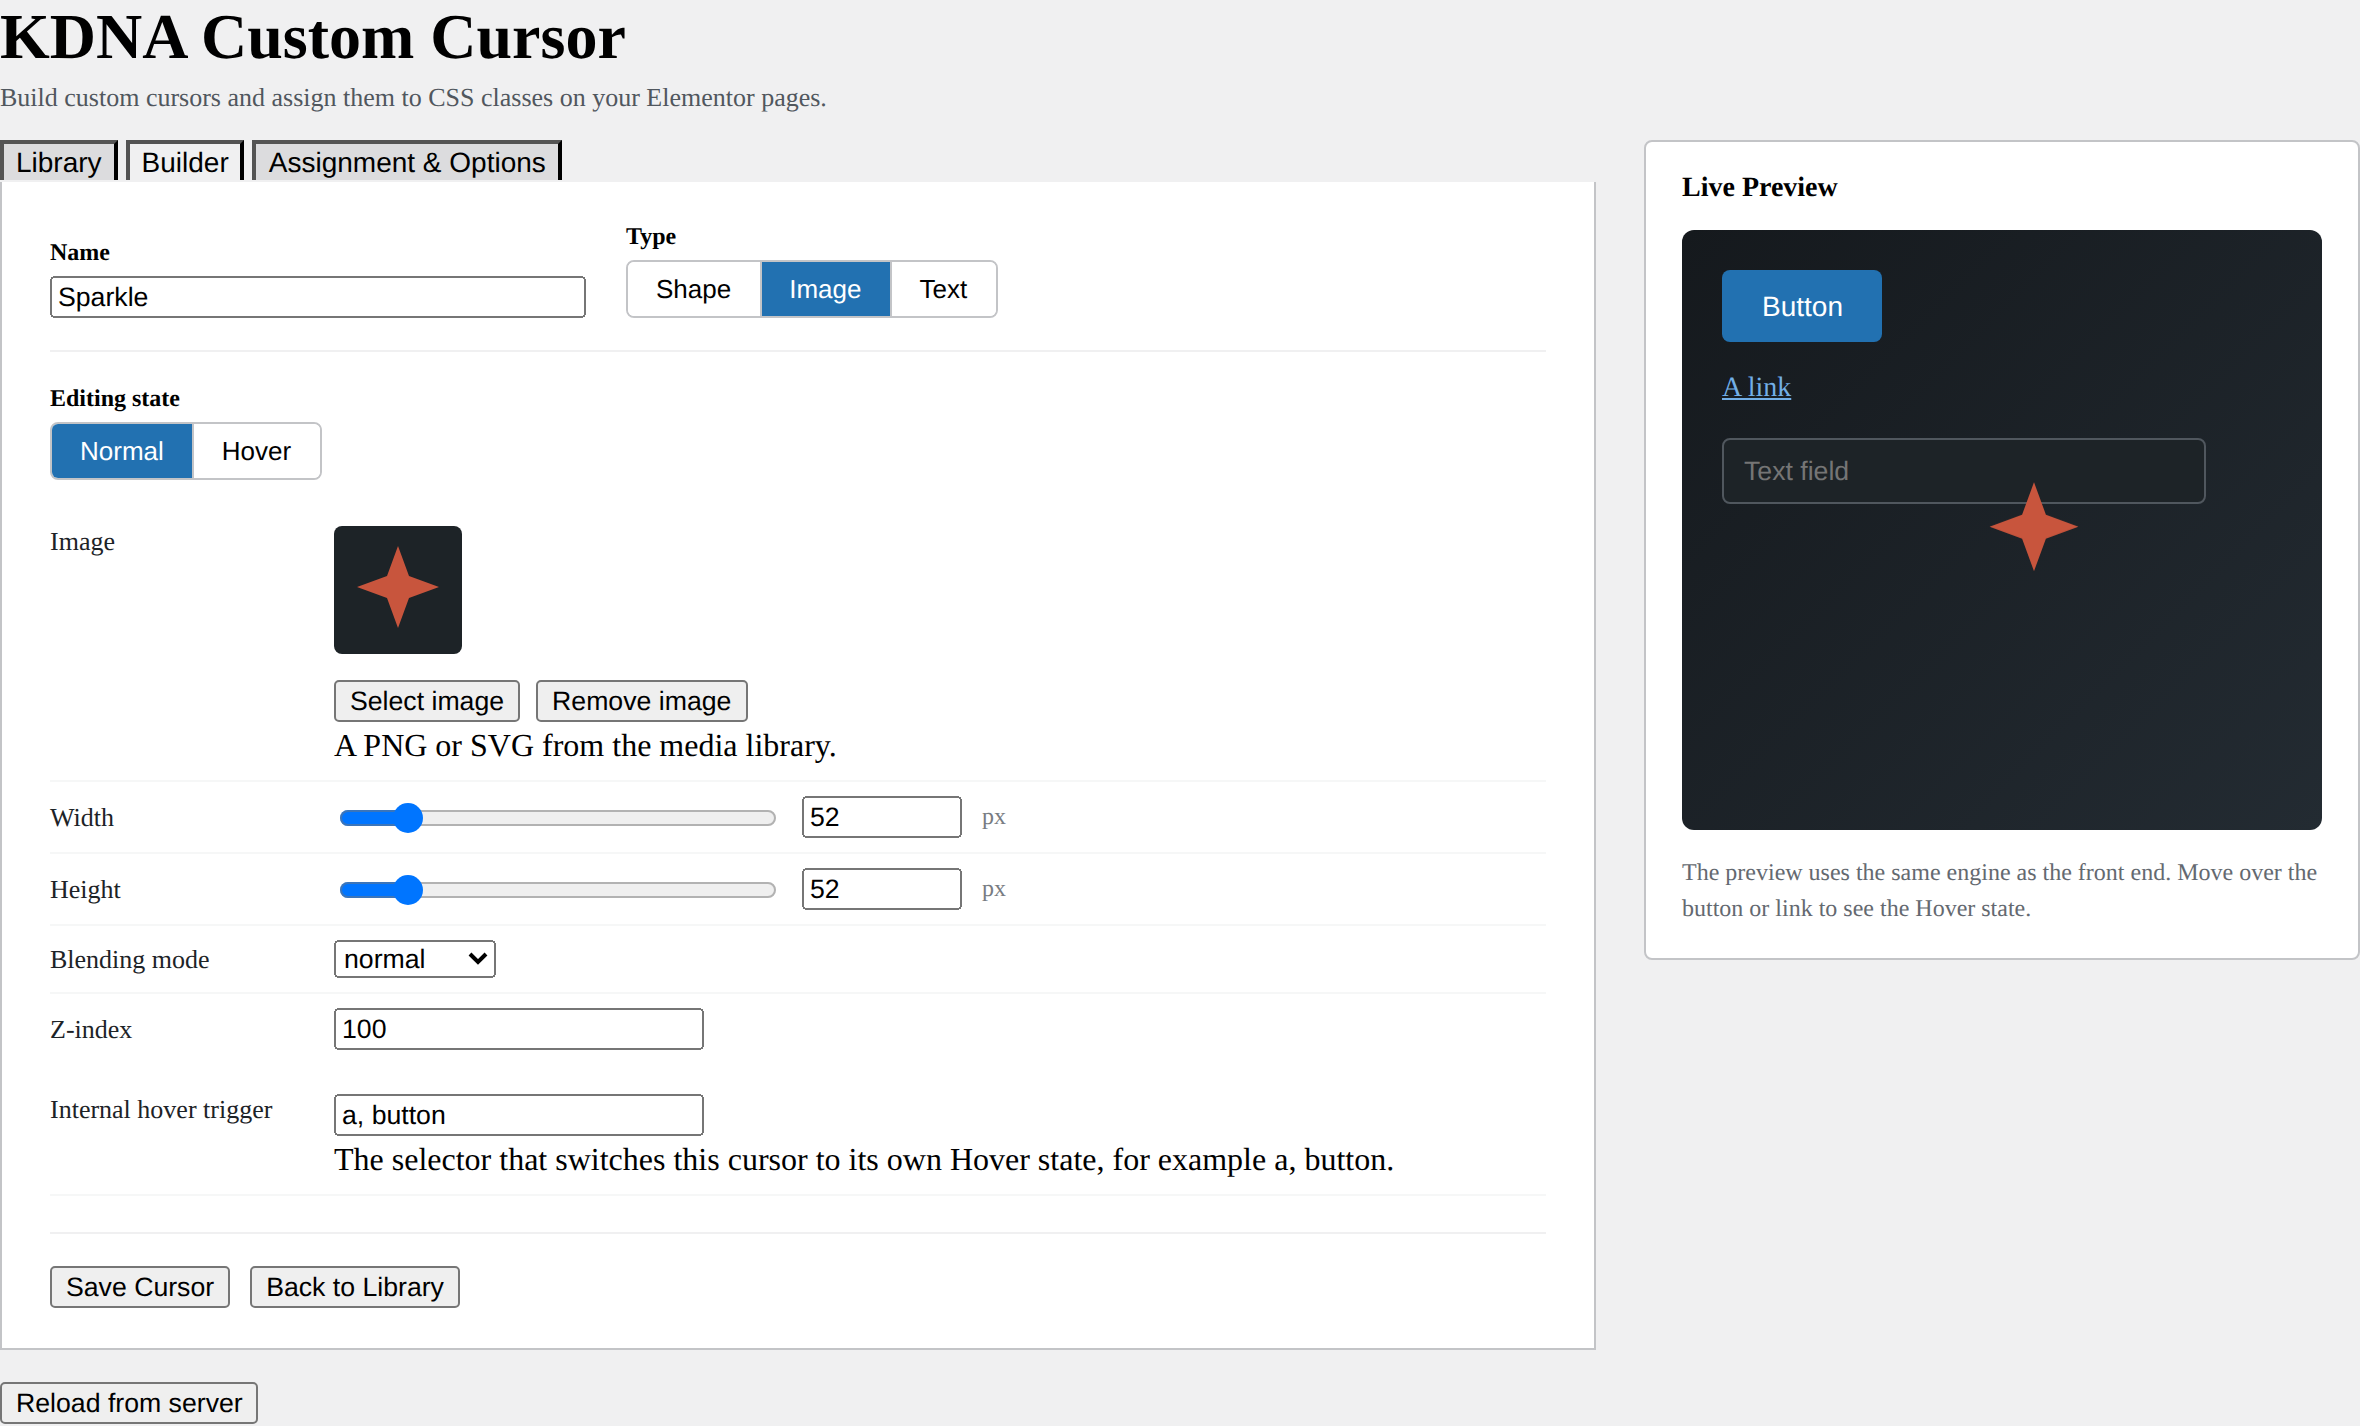
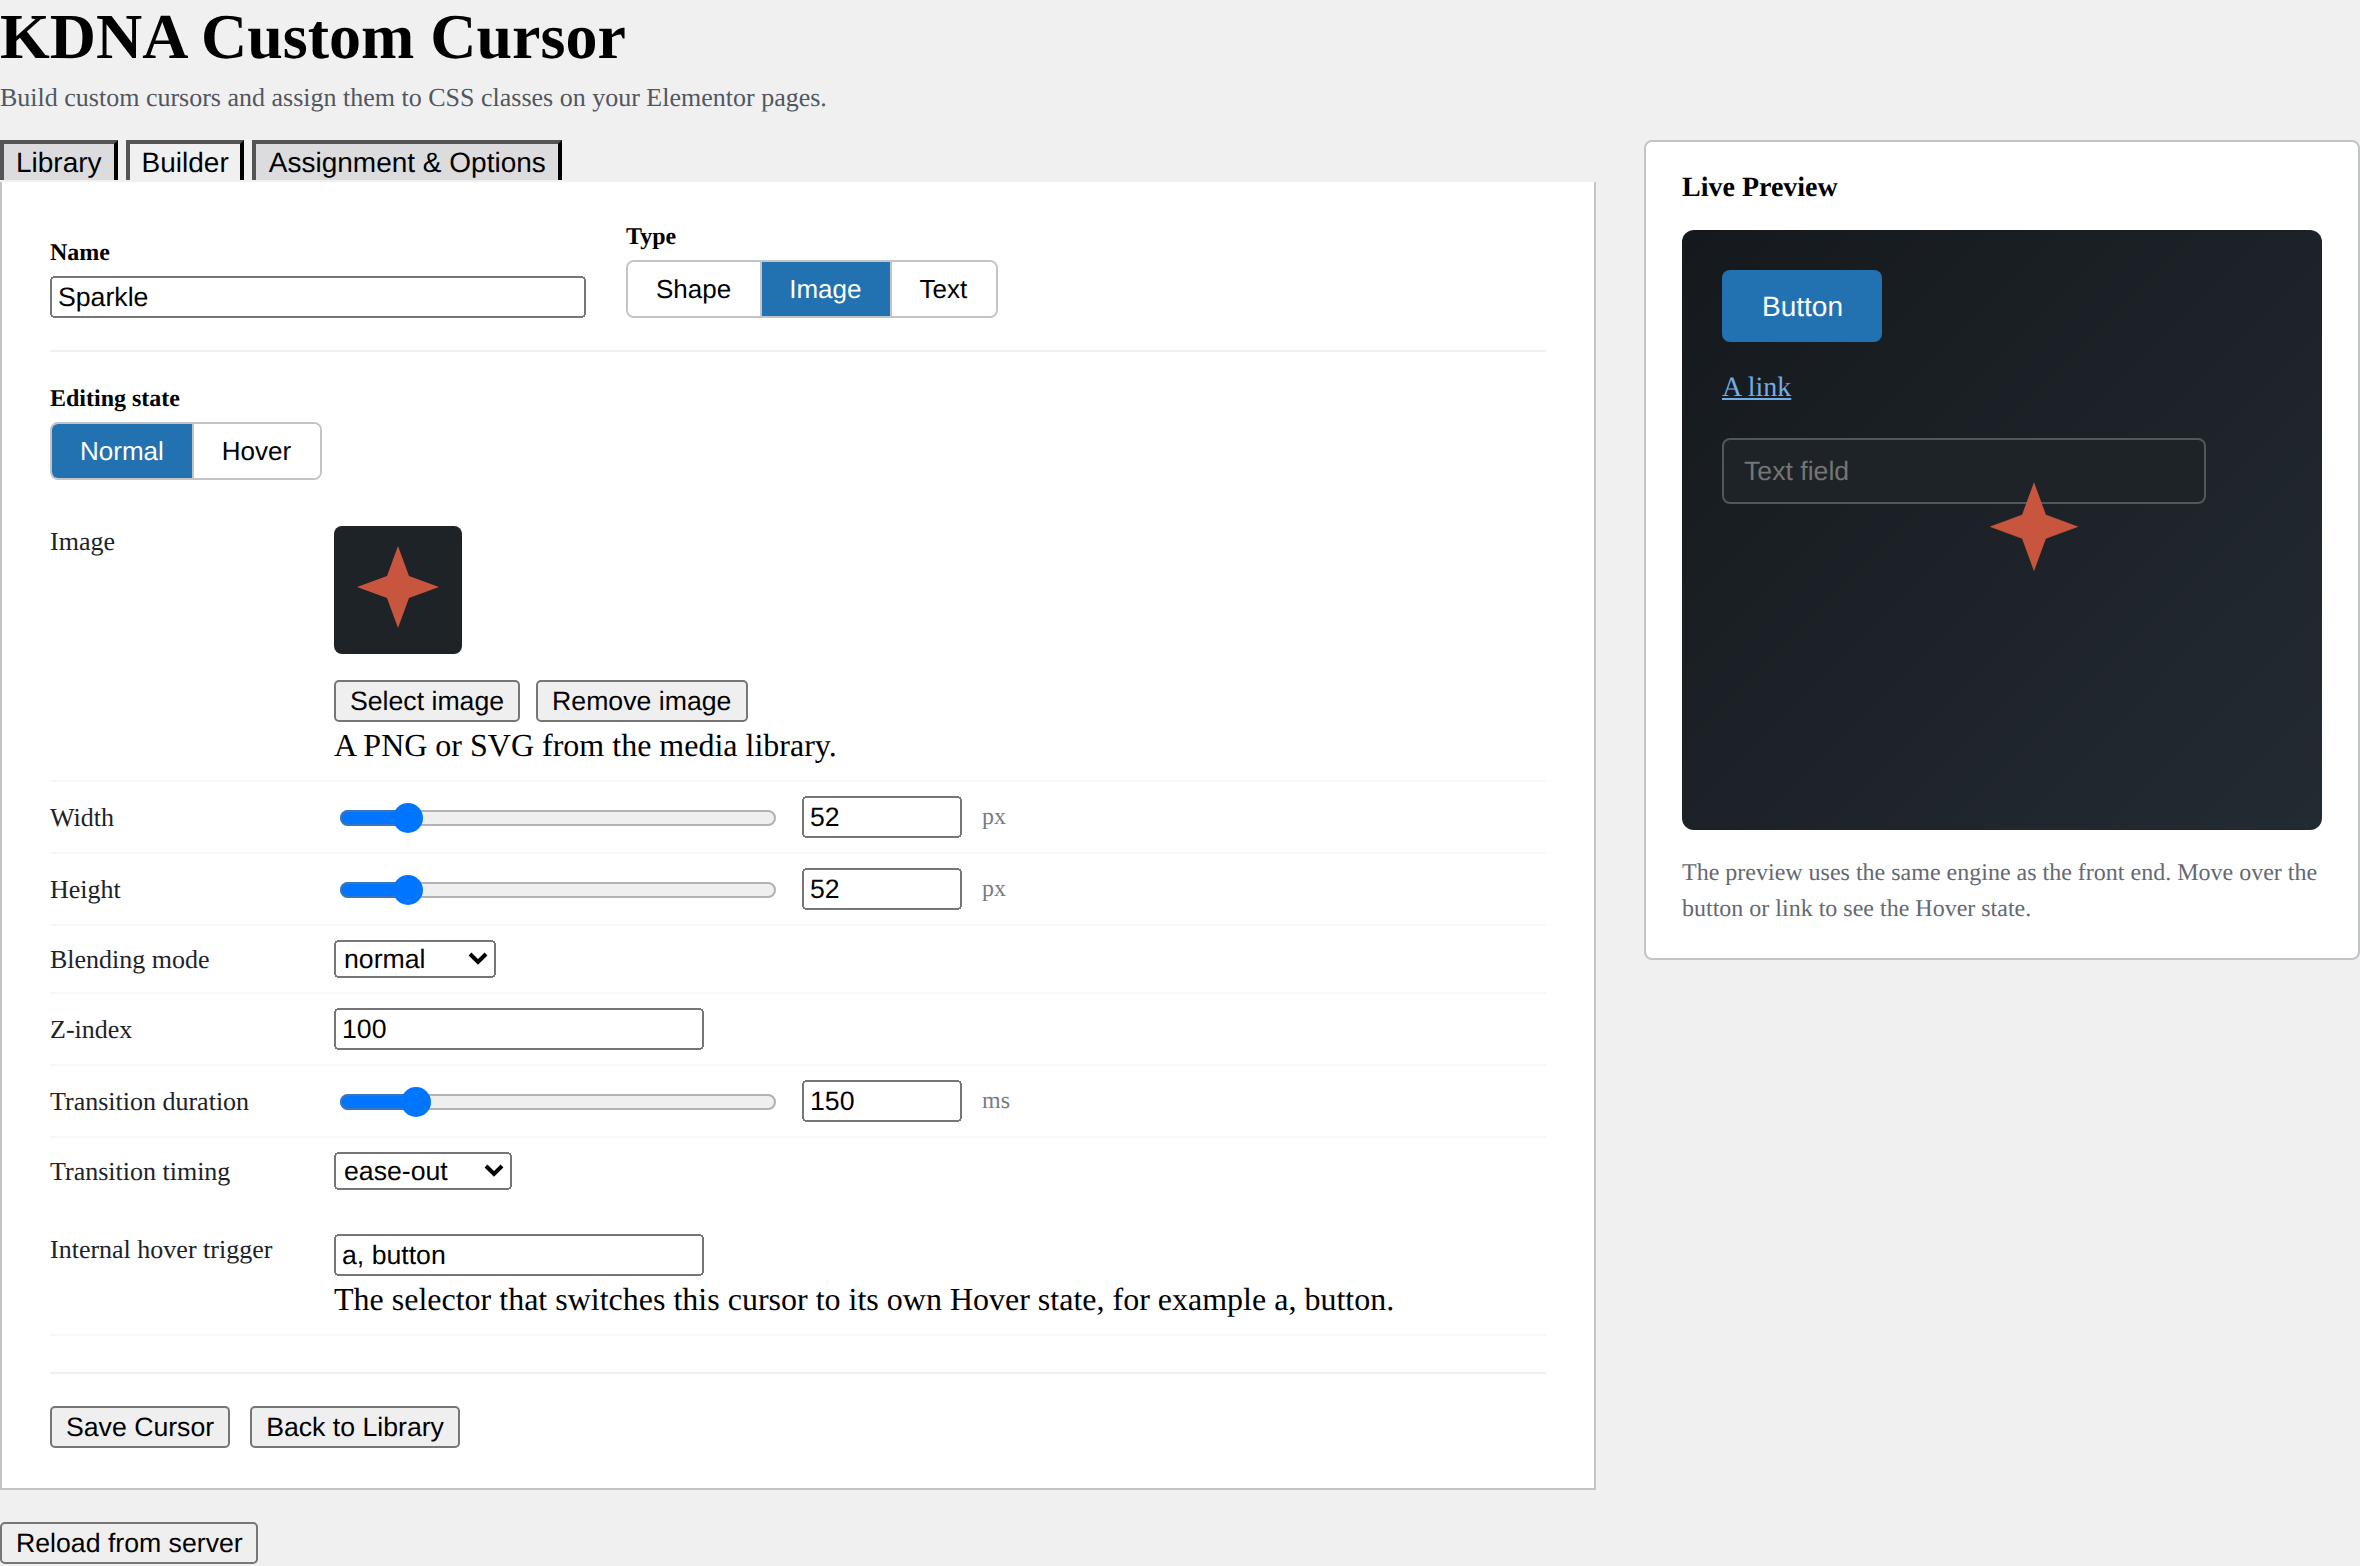
v1.0.2: background blur, transition timings for image/text, scroll re-resolve
Three improvements to the cursor, all in 1.0.2.

- Text background blur. Add a Background blur slider to the Text builder, a
  backdrop-filter blur on the circle or pill that frosts the page behind it.
  Stored as background.backdropBlur, per state, defaulting to 0. The engine
  applies it only when there is a background box, and transitions it on state
  swaps. Pairs with the Fill opacity slider for a glass effect.

- Transition timings for Image and Text. Add Transition duration and Transition
  timing controls to the Image and Text builders, matching the Shape layers.
  The engine builds the transition from the block's own values instead of a
  fixed 150ms ease-out. New transitionDuration and transitionTiming fields on
  the image and text blocks, sanitised and defaulted, and backfilled on older
  cursors when opened.

- Scroll re-resolve. The front-end engine now re-evaluates the active cursor on
  scroll, not only on mouse move, so scrolling a different mapped element under
  a stationary pointer swaps the cursor at once. The scroll listener is captured
  so it also catches scrolling inside nested scroll containers. The
  kdna:content-added handler and the new scroll handler share one re-resolve at
  the last pointer position, coalesced to one pass per frame.

Verified in a headless browser: 13 transition checks, 11 blur checks and 6
scroll checks pass, and the full prior regression stays green (161 checks
[…]

diff --git a/kdna-custom-cursor/assets/js/kdna-cc-engine.js b/kdna-custom-cursor/assets/js/kdna-cc-engine.js
@@ -180,7 +180,10 @@
 		el.style.objectFit = 'contain';
 		el.style.mixBlendMode = block.blendMode || 'normal';
 		el.style.zIndex = intval( block.zIndex, 100 );
-		el.style.transition = 'width 150ms ease-out, height 150ms ease-out, opacity 150ms ease-out';
+
+		var dur = intval( block.transitionDuration, 150 ) + 'ms';
+		var tim = block.transitionTiming || 'ease-out';
+		el.style.transition = 'width ' + dur + ' ' + tim + ', height ' + dur + ' ' + tim + ', opacity ' + dur + ' ' + tim;
 	}
 
 	/**
@@ -287,7 +290,23 @@
 			el.style.borderRadius = '0';
 		}
 
-		el.style.transition = 'width 150ms ease-out, height 150ms ease-out, background-color 150ms ease-out, color 150ms ease-out, font-size 150ms ease-out';
+		// Optional backdrop blur, the frosted glass effect that blurs the page
+		// behind the background box. Only applied when there is a box.
+		var blur = hasBox ? num( bg.backdropBlur, 0 ) : 0;
+		var backdrop = blur > 0 ? ( 'blur(' + blur + 'px)' ) : '';
+		el.style.backdropFilter = backdrop;
+		el.style.webkitBackdropFilter = backdrop;
+
+		var dur = intval( block.transitionDuration, 150 ) + 'ms';
+		var tim = block.transitionTiming || 'ease-out';
+		el.style.transition = [
+			'width ' + dur + ' ' + tim,
+			'height ' + dur + ' ' + tim,
+			'background-color ' + dur + ' ' + tim,
+			'color ' + dur + ' ' + tim,
+			'font-size ' + dur + ' ' + tim,
+			'backdrop-filter ' + dur + ' ' + tim
+		].join( ', ' );
 	}
 
 	/* --------------------------------------------------------------------- */
@@ -605,11 +624,15 @@
 		this.lastClientX = null;
 		this.lastClientY = null;
 
+		// Coalesces scroll re-resolution to one pass per animation frame.
+		this._scrollScheduled = false;
+
 		// Bind handlers once so they can be removed later.
 		this._onMove = this._onMove.bind( this );
 		this._onEnter = this._onEnter.bind( this );
 		this._onLeave = this._onLeave.bind( this );
 		this._onContentAdded = this._onContentAdded.bind( this );
+		this._onScroll = this._onScroll.bind( this );
 		this._loop = this._loop.bind( this );
 
 		this.host.addEventListener( 'mousemove', this._onMove );
@@ -618,10 +641,13 @@
 			this.host.addEventListener( 'mouseleave', this._onLeave );
 		}
 
-		// On the front end, listen for the site telling us content was injected,
-		// so rules rebind for newly added nodes under the pointer at once.
+		// On the front end, rebind under a stationary pointer when content is
+		// injected or when the page scrolls, so the cursor reacts to whatever has
+		// moved beneath it without needing a mouse move. Scroll is captured so it
+		// also catches scrolling inside nested scroll containers.
 		if ( ! this.local ) {
 			document.addEventListener( 'kdna:content-added', this._onContentAdded );
+			window.addEventListener( 'scroll', this._onScroll, { passive: true, capture: true } );
 		}
 
 		// Start hidden when auto hiding, otherwise reveal once a cursor is set.
@@ -853,16 +879,17 @@
 	};
 
 	/**
-	 * Re-evaluate the rules when the site injects content under the pointer.
+	 * Re-resolve the active cursor at the last known pointer position against the
+	 * current DOM, without needing a pointer move.
 	 *
-	 * Event delegation already means injected content works on the next pointer
-	 * move. This handler lets a site rebind at once when content is added under
-	 * a stationary pointer, by re-resolving at the last known pointer position
-	 * against the current DOM (so only the newly injected nodes are picked up).
+	 * Used when something other than the pointer changes what sits beneath it:
+	 * the page scrolling, or content being injected. The cursor stays put on
+	 * screen (the pointer has not moved) but swaps to match the element now under
+	 * it.
 	 *
 	 * @return {void}
 	 */
-	PointerEngine.prototype._onContentAdded = function () {
+	PointerEngine.prototype._reresolve = function () {
 		if ( this.local || null === this.lastClientX ) {
 			return;
 		}
@@ -890,6 +917,33 @@
 			this.renderer.place( this.tx, this.ty, this.ox, this.oy );
 		}
 		this.setVisible( true );
+	};
+
+	/**
+	 * Handle the kdna:content-added event by re-resolving under the pointer.
+	 *
+	 * @return {void}
+	 */
+	PointerEngine.prototype._onContentAdded = function () {
+		this._reresolve();
+	};
+
+	/**
+	 * Handle scrolling by re-resolving under the pointer, coalesced to one pass
+	 * per animation frame so frequent scroll events stay cheap.
+	 *
+	 * @return {void}
+	 */
+	PointerEngine.prototype._onScroll = function () {
+		if ( this._scrollScheduled ) {
+			return;
+		}
+		this._scrollScheduled = true;
+		var self = this;
+		requestAnimationFrame( function () {
+			self._scrollScheduled = false;
+			self._reresolve();
+		} );
 	};
 
 	/**
@@ -984,6 +1038,7 @@
 		}
 		if ( ! this.local ) {
 			document.removeEventListener( 'kdna:content-added', this._onContentAdded );
+			window.removeEventListener( 'scroll', this._onScroll, { capture: true } );
 		}
 		if ( this.rafId ) {
 			cancelAnimationFrame( this.rafId );

diff --git a/kdna-custom-cursor/admin/js/kdna-cc-admin.js b/kdna-custom-cursor/admin/js/kdna-cc-admin.js
@@ -80,7 +80,7 @@
 	 * @return {Object} The default image block.
 	 */
 	function defaultImageBlock() {
-		return { url: '', attachmentId: 0, width: 40, height: 40, blendMode: 'normal', zIndex: 100 };
+		return { url: '', attachmentId: 0, width: 40, height: 40, blendMode: 'normal', zIndex: 100, transitionDuration: 150, transitionTiming: 'ease-out' };
 	}
 
 	/**
@@ -91,8 +91,8 @@
 	function defaultTextBlock() {
 		return {
 			value: '', font: '', size: 16, color: '#ffffff', weight: 'normal',
-			blendMode: 'normal', zIndex: 100,
-			background: { shape: 'none', width: 70, height: 70, fill: '#808080', fillOpacity: 100, borderWidth: 0, borderColor: 'transparent', borderRadius: '100%' }
+			blendMode: 'normal', zIndex: 100, transitionDuration: 150, transitionTiming: 'ease-out',
+			background: { shape: 'none', width: 70, height: 70, fill: '#808080', fillOpacity: 100, backdropBlur: 0, borderWidth: 0, borderColor: 'transparent', borderRadius: '100%' }
 		};
 	}
 
@@ -135,10 +135,27 @@
 		if ( ! cursor ) {
 			return cursor;
 		}
-		[ 'text', 'hover' ].forEach( function ( key ) {
+		// Backfill fields newer versions added on the image, text and hover
+		// blocks. Shape blocks (with inner and outer) carry their own transition
+		// values per layer, so they are left alone here.
+		[ 'image', 'text', 'hover' ].forEach( function ( key ) {
 			var block = cursor[ key ];
-			if ( block && block.background && ( block.background.fillOpacity === undefined || block.background.fillOpacity === null ) ) {
-				block.background.fillOpacity = 100;
+			if ( ! block || block.inner || block.outer ) {
+				return;
+			}
+			if ( block.transitionDuration === undefined || block.transitionDuration === null ) {
+				block.transitionDuration = 150;
+			}
+			if ( ! block.transitionTiming ) {
+				block.transitionTiming = 'ease-out';
+			}
+			if ( block.background ) {
+				if ( block.background.fillOpacity === undefined || block.background.fillOpacity === null ) {
+					block.background.fillOpacity = 100;
+				}
+				if ( block.background.backdropBlur === undefined || block.background.backdropBlur === null ) {
+					block.background.backdropBlur = 0;
+				}
 			}
 		} );
 		return cursor;

diff --git a/kdna-custom-cursor/includes/class-kdna-cc-data.php b/kdna-custom-cursor/includes/class-kdna-cc-data.php
@@ -369,12 +369,14 @@ class KDNA_CC_Data {
 		}
 
 		return array(
-			'url'          => isset( $raw['url'] ) ? esc_url_raw( (string) $raw['url'] ) : '',
-			'attachmentId' => (int) self::sanitize_number( $raw, 'attachmentId', 0, 0, 2147483647 ),
-			'width'        => self::sanitize_number( $raw, 'width', 40, 0, 2000 ),
-			'height'       => self::sanitize_number( $raw, 'height', 40, 0, 2000 ),
-			'blendMode'    => self::sanitize_enum( $raw, 'blendMode', self::blend_modes(), 'normal' ),
-			'zIndex'       => (int) self::sanitize_number( $raw, 'zIndex', 100, 0, 2147483647 ),
+			'url'                => isset( $raw['url'] ) ? esc_url_raw( (string) $raw['url'] ) : '',
+			'attachmentId'       => (int) self::sanitize_number( $raw, 'attachmentId', 0, 0, 2147483647 ),
+			'width'              => self::sanitize_number( $raw, 'width', 40, 0, 2000 ),
+			'height'             => self::sanitize_number( $raw, 'height', 40, 0, 2000 ),
+			'blendMode'          => self::sanitize_enum( $raw, 'blendMode', self::blend_modes(), 'normal' ),
+			'zIndex'             => (int) self::sanitize_number( $raw, 'zIndex', 100, 0, 2147483647 ),
+			'transitionDuration' => (int) self::sanitize_number( $raw, 'transitionDuration', 150, 0, 5000 ),
+			'transitionTiming'   => self::sanitize_enum( $raw, 'transitionTiming', self::timings(), 'ease-out' ),
 		);
 	}
 
@@ -393,19 +395,22 @@ class KDNA_CC_Data {
 		$bg = ( isset( $raw['background'] ) && is_array( $raw['background'] ) ) ? $raw['background'] : array();
 
 		return array(
-			'value'      => isset( $raw['value'] ) ? sanitize_text_field( (string) $raw['value'] ) : '',
-			'font'       => self::sanitize_font( isset( $raw['font'] ) ? $raw['font'] : '' ),
-			'size'       => self::sanitize_number( $raw, 'size', 16, 0, 500 ),
-			'color'      => self::sanitize_color_field( $raw, 'color', '#ffffff' ),
-			'weight'     => self::sanitize_font_weight( isset( $raw['weight'] ) ? $raw['weight'] : 'normal' ),
-			'blendMode'  => self::sanitize_enum( $raw, 'blendMode', self::blend_modes(), 'normal' ),
-			'zIndex'     => (int) self::sanitize_number( $raw, 'zIndex', 100, 0, 2147483647 ),
-			'background' => array(
+			'value'              => isset( $raw['value'] ) ? sanitize_text_field( (string) $raw['value'] ) : '',
+			'font'               => self::sanitize_font( isset( $raw['font'] ) ? $raw['font'] : '' ),
+			'size'               => self::sanitize_number( $raw, 'size', 16, 0, 500 ),
+			'color'              => self::sanitize_color_field( $raw, 'color', '#ffffff' ),
+			'weight'             => self::sanitize_font_weight( isset( $raw['weight'] ) ? $raw['weight'] : 'normal' ),
+			'blendMode'          => self::sanitize_enum( $raw, 'blendMode', self::blend_modes(), 'normal' ),
+			'zIndex'             => (int) self::sanitize_number( $raw, 'zIndex', 100, 0, 2147483647 ),
+			'transitionDuration' => (int) self::sanitize_number( $raw, 'transitionDuration', 150, 0, 5000 ),
+			'transitionTiming'   => self::sanitize_enum( $raw, 'transitionTiming', self::timings(), 'ease-out' ),
+			'background'         => array(
 				'shape'        => self::sanitize_enum( $bg, 'shape', self::background_shapes(), 'none' ),
 				'width'        => self::sanitize_number( $bg, 'width', 70, 0, 2000 ),
 				'height'       => self::sanitize_number( $bg, 'height', 70, 0, 2000 ),
 				'fill'         => self::sanitize_color_field( $bg, 'fill', '#808080' ),
 				'fillOpacity'  => (int) self::sanitize_number( $bg, 'fillOpacity', 100, 0, 100 ),
+				'backdropBlur' => (int) self::sanitize_number( $bg, 'backdropBlur', 0, 0, 100 ),
 				'borderWidth'  => self::sanitize_number( $bg, 'borderWidth', 0, 0, 100 ),
 				'borderColor'  => self::sanitize_color_field( $bg, 'borderColor', 'transparent' ),
 				'borderRadius' => self::sanitize_length_field( $bg, 'borderRadius', '100%' ),

diff --git a/kdna-custom-cursor/admin/admin-page.php b/kdna-custom-cursor/admin/admin-page.php
@@ -91,6 +91,29 @@ function kdna_cc_blend_select( $path ) {
 	<?php
 }
 
+/**
+ * Echo a simple dropdown control bound to an Alpine path.
+ *
+ * @param string $label   The control label.
+ * @param string $path    The Alpine expression for the bound value.
+ * @param array  $options The option values.
+ * @return void
+ */
+function kdna_cc_select( $label, $path, $options ) {
+	?>
+	<div class="kdna-cc-control">
+		<label class="kdna-cc-control-label"><?php echo esc_html( $label ); ?></label>
+		<div class="kdna-cc-control-input">
+			<select x-model="<?php echo esc_attr( $path ); ?>">
+				<?php foreach ( $options as $kdna_cc_opt ) : ?>
+					<option value="<?php echo esc_attr( $kdna_cc_opt ); ?>"><?php echo esc_html( $kdna_cc_opt ); ?></option>
+				<?php endforeach; ?>
+			</select>
+		</div>
+	</div>
+	<?php
+}
+
 } // End the function_exists guard for the template helpers.
 ?>
 <div class="wrap kdna-cc-wrap" x-data="kdnaCcAdmin" x-cloak>
@@ -313,6 +336,8 @@ function kdna_cc_blend_select( $path ) {
 											<input type="number" class="small-text" x-model.number="stateBlock().zIndex">
 										</div>
 									</div>
+									<?php kdna_cc_slider( __( 'Transition duration', 'kdna-custom-cursor' ), 'stateBlock().transitionDuration', 1000, 'ms' ); ?>
+									<?php kdna_cc_select( __( 'Transition timing', 'kdna-custom-cursor' ), 'stateBlock().transitionTiming', array( 'ease', 'ease-out', 'ease-in-out', 'linear' ) ); ?>
 								</div>
 							</template>
 
@@ -356,6 +381,8 @@ function kdna_cc_blend_select( $path ) {
 											<input type="number" class="small-text" x-model.number="stateBlock().zIndex">
 										</div>
 									</div>
+									<?php kdna_cc_slider( __( 'Transition duration', 'kdna-custom-cursor' ), 'stateBlock().transitionDuration', 1000, 'ms' ); ?>
+									<?php kdna_cc_select( __( 'Transition timing', 'kdna-custom-cursor' ), 'stateBlock().transitionTiming', array( 'ease', 'ease-out', 'ease-in-out', 'linear' ) ); ?>
 
 									<div class="kdna-cc-subhead"><?php esc_html_e( 'Background', 'kdna-custom-cursor' ); ?></div>
 									<div class="kdna-cc-control">
@@ -374,6 +401,7 @@ function kdna_cc_blend_select( $path ) {
 											<?php kdna_cc_slider( __( 'Height', 'kdna-custom-cursor' ), 'stateBlock().background.height', 300 ); ?>
 											<?php kdna_cc_colour( __( 'Fill', 'kdna-custom-cursor' ), 'stateBlock().background.fill' ); ?>
 											<?php kdna_cc_slider( __( 'Fill opacity', 'kdna-custom-cursor' ), 'stateBlock().background.fillOpacity', 100, '%' ); ?>
+											<?php kdna_cc_slider( __( 'Background blur', 'kdna-custom-cursor' ), 'stateBlock().background.backdropBlur', 30 ); ?>
 											<?php kdna_cc_slider( __( 'Border width', 'kdna-custom-cursor' ), 'stateBlock().background.borderWidth', 20 ); ?>
 											<?php kdna_cc_colour( __( 'Border colour', 'kdna-custom-cursor' ), 'stateBlock().background.borderColor' ); ?>
 											<div class="kdna-cc-control">

diff --git a/kdna-custom-cursor/kdna-custom-cursor.php b/kdna-custom-cursor/kdna-custom-cursor.php
@@ -3,7 +3,7 @@
  * Plugin Name:       KDNA Custom Cursor
  * Plugin URI:        https://krulldna.com/
  * Description:       Build custom animated cursors in the WordPress admin and assign them to specific CSS classes on your Elementor pages, with an optional site-wide global cursor.
- * Version:           1.0.1
+ * Version:           1.0.2
  * Requires at least: 6.0
  * Requires PHP:      7.4
  * Author:            KDNA
@@ -25,7 +25,7 @@ if ( ! defined( 'ABSPATH' ) ) {
 }
 
 // Plugin version. Kept in one place so assets and the readme stay in step.
-define( 'KDNA_CC_VERSION', '1.0.1' );
+define( 'KDNA_CC_VERSION', '1.0.2' );
 
 // Absolute path to this main plugin file.
 define( 'KDNA_CC_FILE', __FILE__ );

diff --git a/docs/USER-GUIDE.md b/docs/USER-GUIDE.md
@@ -2,7 +2,7 @@
 
 ### User Guide
 
-Version 1.0.1
+Version 1.0.2
 
 A custom cursor builder for WordPress and Elementor, with a per-class assignment model. Build animated mouse cursors in the WordPress admin and assign them to specific CSS classes on your pages, with an optional site-wide global cursor.
 
@@ -63,7 +63,7 @@ There is no build step, no npm, and no dependency on WooCommerce. The admin uses
 ## 3. Installing and activating
 
 1. In the WordPress admin go to **Plugins**, then **Add New**, then **Upload Plugin**.
-2. Choose the file `kdna-custom-cursor-1.0.0.zip` and select **Install Now**.
+2. Choose the file `kdna-custom-cursor-1.0.2.zip` and select **Install Now**.
 3. Select **Activate**.
 4. Open **Settings**, then **KDNA Custom Cursor** to start building.
 
@@ -144,8 +144,10 @@ To build a View label:
 4. Under **Background**, set **Shape** to **Circle**.
 5. Set the circle **Width** and **Height** equal, for example `72` by `72`, and choose a **Fill** colour.
 6. To give the fill a coloured transparency, drag the **Fill opacity** slider beneath the fill. `100` is solid and `0` is fully see-through. The text inside stays solid, so only the background fades. You can also type an rgba value or an eight digit hex into the Fill field for the same effect, for example `rgba(122,127,135,0.5)` or `#7a7f8780`.
-7. Optionally add a **Border width** and **Border colour**, and adjust the **Border radius**. A circle uses `100%`. For a pill, use a wider Width than Height and a large radius.
-8. Name it **View** and select **Save Cursor**.
+7. For a frosted glass look, raise the **Background blur** slider. It blurs the page behind the circle or pill, and reads best with a Fill opacity below `100`.
+8. Optionally add a **Border width** and **Border colour**, and adjust the **Border radius**. A circle uses `100%`. For a pill, use a wider Width than Height and a large radius.
+9. Set the **Transition duration** and **Transition timing** to control how smoothly the cursor eases between its Normal and Hover states.
+10. Name it **View** and select **Save Cursor**.
 
 To make the matching **Scroll** cursor, the quickest route is to **Duplicate** the View cursor in the Library, then change its text to `Scroll`. The two starter presets already include both.
 
@@ -165,7 +167,8 @@ To build one:
 2. Select **Select image** and choose a PNG or SVG from the WordPress media library. The chosen image appears as a small preview.
 3. Set the **Width** and **Height**. SVGs scale crisply at any size.
 4. Optionally set a **Blending mode** and a **Z-index**.
-5. Name it and select **Save Cursor**.
+5. Set the **Transition duration** and **Transition timing** to ease the change between the Normal and Hover states.
+6. Name it and select **Save Cursor**.
 
 Use **Remove image** to clear the current picture and pick another. Transparent PNGs and SVGs work best, since the area around the artwork stays see-through.
 
@@ -195,9 +198,10 @@ The Shape builder exposes the full set of controls for the inner and the outer l
 | Width and Height | inner, outer, image, text background | Pixel sliders with a paired numeric entry |
 | Colour | inner, outer, text | Named, hex or rgba, plus transparent |
 | Fill opacity | text background | 0 to 100, gives the background fill a coloured transparency |
+| Background blur | text background | 0 to 30, a backdrop blur that frosts the page behind the box |
 | Border width and colour | inner, outer, text background | Pixels and a colour |
 | Border radius | inner, outer, text background | `100%` gives a circle, or a pixel value |
-| Transition duration and timing | shape layers | Milliseconds, with ease, ease-out, ease-in-out or linear |
+| Transition duration and timing | all types | Milliseconds, with ease, ease-out, ease-in-out or linear |
 | Blending mode | all | normal, difference, multiply, screen or exclusion |
 | Velocity (trail) | outer | `0` locks to the pointer, higher gives more lag |
 | Z-index | all | Stacking order, default 100 for inner and 101 for outer |
@@ -325,6 +329,8 @@ document.dispatchEvent( new Event( 'kdna:content-added' ) );
 
 The engine re-checks the rules for whatever now sits under the pointer and swaps the cursor immediately.
 
+The cursor also re-checks itself when the page scrolls, so scrolling a different element under a still pointer swaps the cursor without a mouse move, including inside nested scroll areas.
+
 ---
 
 ## 18. Recipes
@@ -387,4 +393,4 @@ To remove the plugin completely, delete it from the **Plugins** screen. Deletion
 
 ---
 
-*KDNA Custom Cursor, version 1.0.1. Built for WordPress and Elementor.*
+*KDNA Custom Cursor, version 1.0.2. Built for WordPress and Elementor.*